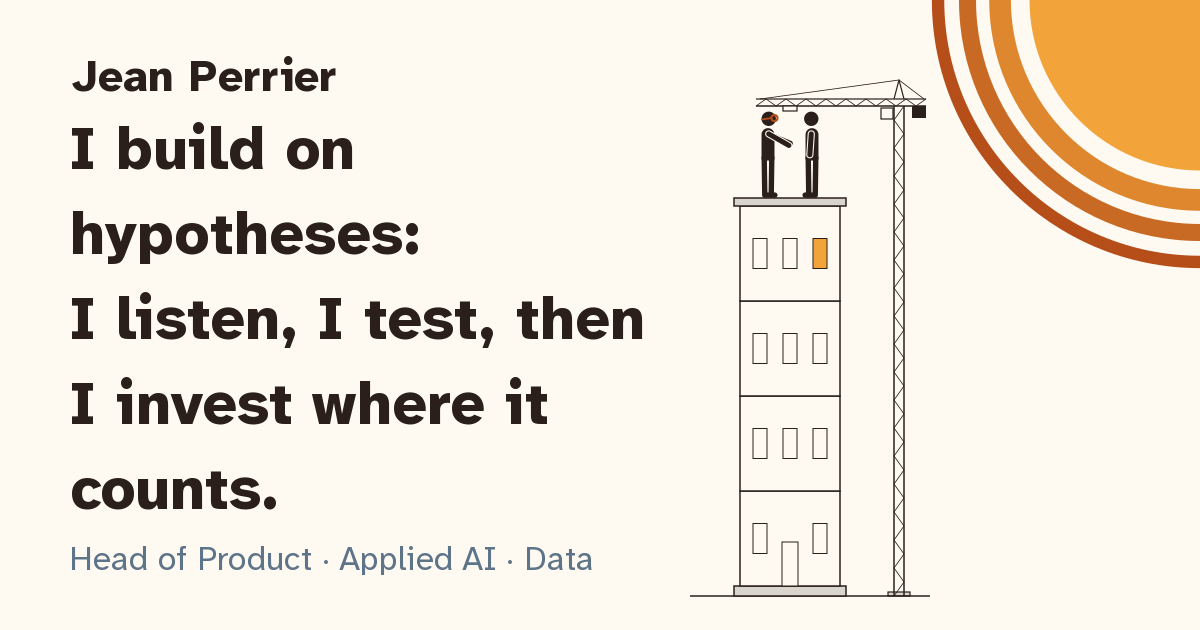
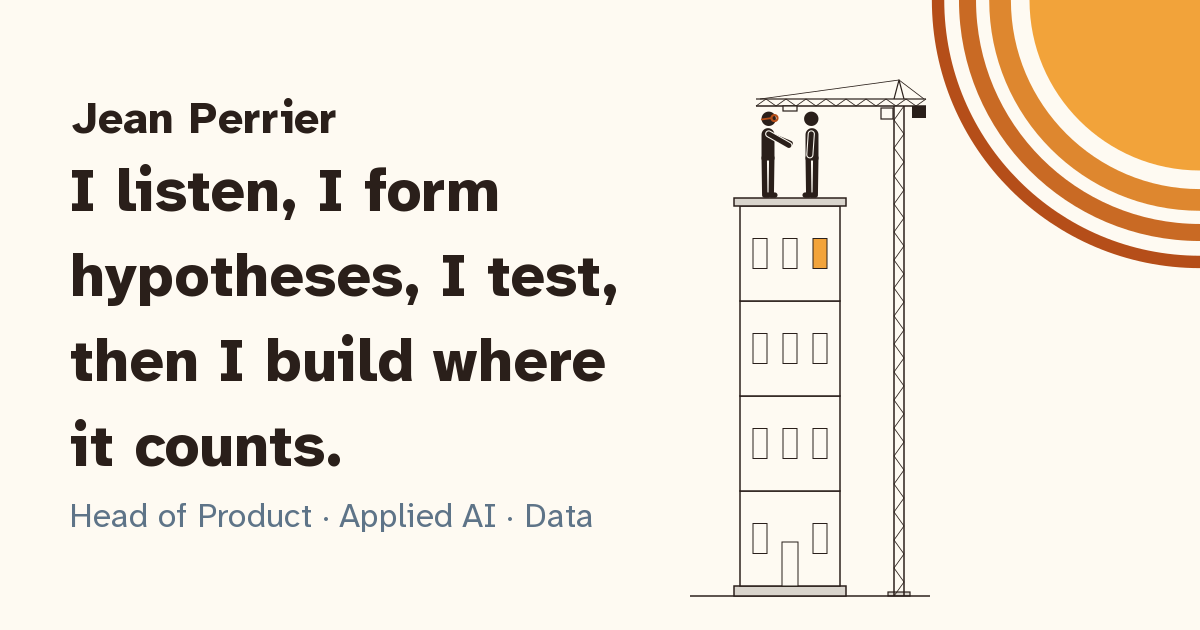
Phrase signature : ecouter d'abord, puis poser des hypotheses (0045)

Changed region(s): [[0.0617, 0.0905, 0.555, 0.8444], [0.0617, 0.8746, 0.4933, 0.9048]]

diff --git a/registre/0045-phrase-signature-et-date.md b/registre/0045-phrase-signature-et-date.md
@@ -21,3 +21,5 @@ images ; bannière FR sur trois lignes coupées à la main (« compte. » restai
 seul), EN sur deux ; aperçu en cinq lignes, serré mais lisible. Champ `date`
 (`AAAA-MM`) obligatoire, affiché en ardoise 19 px gras sous le `<h1>`.
 Ratio 2,0 : la longueur de la nouvelle phrase a coûté une passe d'images.
+
+**Révision (Jean, 2026-09-30)** : « J'écoute, je pose des hypothèses, je teste, puis je construis là où ça compte. » (EN « I listen, I form hypotheses, I test, then I build where it counts. »), écouter d'abord. Accueil, À propos, texte alternatif de l'aperçu, aperçus Open Graph et bannières LinkedIn régénérés.

diff --git a/redaction/a-propos.fr.md b/redaction/a-propos.fr.md
@@ -14,7 +14,7 @@ Avant, j’ai construit des services publics numériques : à la direction inter
 l’Observatoire de la qualité des démarches en ligne et « Je donne mon
 avis », puis à la direction interministérielle de la transformation publique (DITP), Services publics +.
 
-Je bâtis sur des hypothèses : j’écoute, je teste, puis j’investis là où ça compte.
+J’écoute, je pose des hypothèses, je teste, puis je construis là où ça compte.
 J’utilise l’IA quand elle sert un besoin précis : classer des retours,
 auditer un contenu, prototyper une fonctionnalité.
 
